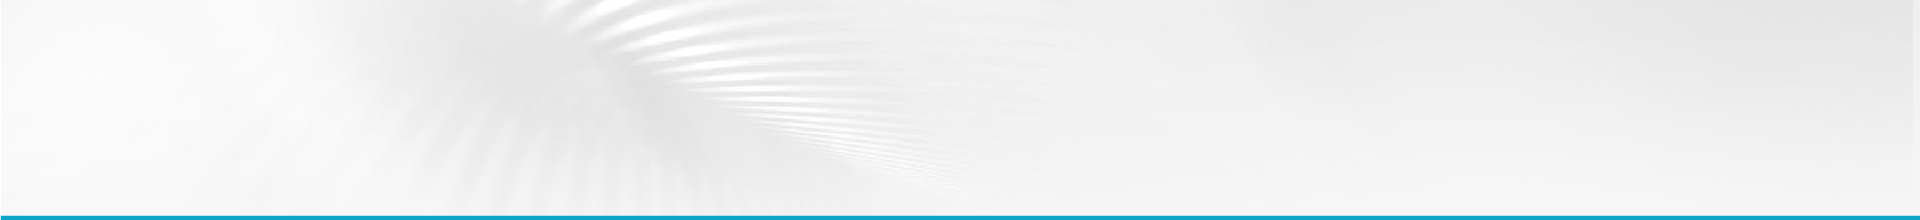
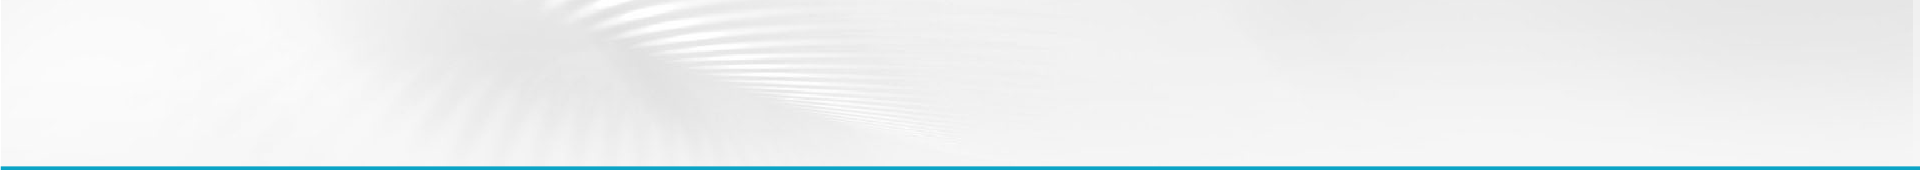
Modificações na pagina index, e na página tutoriais

Changed region(s): [[0.0, 0.9706, 1.0, 1.0]]

diff --git a/_css/tutorial.css b/_css/tutorial.css
@@ -1,33 +1,37 @@
 *{
-    margin: 0;
-    padding: 0;
+    margin: 0px;
+    padding: 0px;
+}
+
+/* -------------------------- CSS BODY ----------------------- */
+
+body{
+    font-family: Lato;
+    background-image: url("../_images/bg-branco.png");
+    background-attachment: fixed;
 }
 
 
 /* -------------------------- CSS HEADER ----------------------- */
 
-body{
-    margin: 0px;
-    font-family: Lato;
-    background-image: url("../_images/bg-branco.png");
-}
-
 div#header{
+    position: relative;
     width: 100%;
-    height: 220px;
+    height: 170px;
     display: block;
     background-image: url("../_images/bg_header.png");
     box-shadow: 0px 20px 60px rgba(0,0,0,.3);
-    margin: -21px 0px 0px 0px;
+    margin: 0px 0px 0px 0px;
+    clear: left;
 }
 
 div#header h1 img{
     position: relative;
-    padding: 18px 0px 0px 0px;
+    padding: 0px 0px 0px 0px;
 }
 
 div#header h1{
-    padding: 15px 0px 0px 80px;
+    padding: 2px 0px 0px 80px;
     display: block;
     float: left;
 }
@@ -37,7 +41,7 @@ ul#nav_topo{
     padding-left: 0px;
     float: left;
     margin-left: 420px;
-    padding-top: 155px;
+    padding-top: 105px;
 }
 
 ul#nav_topo li{
@@ -62,7 +66,53 @@ ul#nav_topo a.ativa{
     border-bottom: 2.5px solid #086B7C;
 }
 
+div#box_social{
+    position: absolute;
+    float: left;
+    width: 150px;
+    height: 40px;
+    margin: 20px 0px 0px 1180px;
+}
 
+.icon{
+    margin: 0px 0px 0px 0px;
+    padding: 0;
+    position: relative;
+    float: left;
+    width: 40px;
+    height: 40px;
+
+}
+
+.icon img#twitter{
+    background-color: black;
+}
+
+.icon img#twitter:hover{
+    cursor: pointer;
+    background-color: #0BA4C6;
+    transition: .2s;
+}
+
+.icon img#facebook{
+    background-color: black;
+}
+
+.icon img#facebook:hover{
+    cursor: pointer;
+    background-color: #3B5998;
+    transition: .2s;
+}
+
+.icon img#google-plus{
+    background-color: black;
+}
+
+.icon img#google-plus:hover{
+    cursor: pointer;
+    background-color: #F34A38;
+    transition: .2s;
+}
 /* -------------------------- CSS CONTENT ----------------------- */
 
 .content{
@@ -140,4 +190,60 @@ ul#nav_topo a.ativa{
 .box_tutorial .botton:hover {
     background-color: #17BBCC;
     cursor: pointer;
+}
+
+
+/* -------------------------- CSS RODAPÉ ----------------------- */
+
+.rodape{
+    width: 100%;
+    height: 200px;
+    background-color: #1B1B1B;
+}
+
+ul#nav_rodape{
+    list-style: none;
+    text-align: center;
+    padding: 70px 0px 0px 0px;
+}
+
+ul#nav_rodape li{
+    display: inline-block;
+}
+
+ul#nav_rodape a{
+    text-decoration: none;
+    margin: 0px 0px 0px 20px;
+    color: white;
+    font-family: Lato;
+    font-size: 14px;
+}
+
+ul#nav_rodape a:hover{
+    color: #0BA4C6;
+    transition: .5s;
+}
+
+.rodape p{
+    text-align: center;
+    padding: 60px 0px 0px 0px;
+    font-size: 12px;
+    color: #4C4C4C;
+}
+
+/* -------------------------- BACK-TO-TOP ----------------------- */
+
+.back-to-top{
+    background-image: url("../_images/back-to-top-botton.png");
+    display: block;
+    width: 40px;
+    height: 40px;
+    position: fixed;
+    bottom: 10px;
+    right: 20px;
+}
+
+.back-to-top:hover{
+    cursor: pointer;
+    background-position: 0 -40px;
 }

diff --git a/_css/index.css b/_css/index.css
@@ -7,7 +7,6 @@
 /* -------------------------- CSS HEADER ----------------------- */
 
 body{
-    margin: 0px;
     font-family: Lato;
     background-image: url("../_images/bg-branco.png");
     background-attachment: fixed;
@@ -15,21 +14,23 @@ body{
 }
 
 div#header{
+    position: relative;
     width: 100%;
-    height: 220px;
+    height: 170px;
     display: block;
     background-image: url("../_images/bg_header.png");
     box-shadow: 0px 20px 60px rgba(0,0,0,.3);
-    margin: -21px 0px 0px 0px;
+    margin: 0px 0px 0px 0px;
+    clear: left;
 }
 
 div#header h1 img{
     position: relative;
-    padding: 18px 0px 0px 0px;
+    padding: 0px 0px 0px 0px;
 }
 
 div#header h1{
-    padding: 15px 0px 0px 80px;
+    padding: 2px 0px 0px 80px;
     display: block;
     float: left;
 }
@@ -39,7 +40,7 @@ ul#nav_topo{
     padding-left: 0px;
     float: left;
     margin-left: 420px;
-    padding-top: 155px;
+    padding-top: 105px;
 }
 
 ul#nav_topo li{
@@ -64,6 +65,53 @@ ul#nav_topo a.ativa{
     border-bottom: 2.5px solid #086B7C;
 }
 
+div#box_social{
+    position: absolute;
+    float: left;
+    width: 150px;
+    height: 40px;
+    margin: 20px 0px 0px 1180px;
+}
+
+.icon{
+    margin: 0px 0px 0px 0px;
+    padding: 0;
+    position: relative;
+    float: left;
+    width: 40px;
+    height: 40px;
+
+}
+
+.icon img#twitter{
+    background-color: black;
+}
+
+.icon img#twitter:hover{
+    cursor: pointer;
+    background-color: #0BA4C6;
+    transition: .2s;
+}
+
+.icon img#facebook{
+    background-color: black;
+}
+
+.icon img#facebook:hover{
+    cursor: pointer;
+    background-color: #3B5998;
+    transition: .2s;
+}
+
+.icon img#google-plus{
+    background-color: black;
+}
+
+.icon img#google-plus:hover{
+    cursor: pointer;
+    background-color: #F34A38;
+    transition: .2s;
+}
 
 /* -------------------------- CSS SLIDER ----------------------- */
 
@@ -286,8 +334,8 @@ ul#nav_rodape a:hover{
 .back-to-top{
     background-image: url("../_images/back-to-top-botton.png");
     display: block;
-    width: 60px;
-    height: 60px;
+    width: 40px;
+    height: 40px;
     position: fixed;
     bottom: 10px;
     right: 20px;
@@ -295,5 +343,5 @@ ul#nav_rodape a:hover{
 
 .back-to-top:hover{
     cursor: pointer;
-    background-position: 0 -60px;
+    background-position: 0 -40px;
 }

diff --git a/tutorial.html b/tutorial.html
@@ -4,6 +4,7 @@
     <meta charset="UTF-8">
     <link rel="stylesheet" href="_css/tutorial.css">
     <link href="https://fonts.googleapis.com/css?family=Lato" rel="stylesheet">
+    <script src="_js/back-to-top.js"></script>
     <title>Web Tutor's - Site Luisão WebMaster</title>
 </head>
 <body>
@@ -16,6 +17,18 @@
         <li><a href="#">QUEM SOU</a></li>
         <li><a href="#">CONTATO</a></li>
     </ul>
+
+    <div id="box_social">
+        <div class="icon">
+            <img src="_images/social_twitter.png" id="twitter" title="Acesse nosso Twitter">
+        </div>
+        <div class="icon">
+            <img src="_images/social_facebook.png " id="facebook" title="Acesse nosso Facebook">
+        </div>
+        <div class="icon">
+            <img src="_images/social_googleplus.png" id="google-plus" title="Acesse nosso Google+">
+        </div>
+    </div>
 </div>
 
 <div class="content">
@@ -50,6 +63,20 @@
     </div>
 </div>
 
+<div class="rodape">
+    <ul id="nav_rodape">
+        <li><a href="#">INICIO</a></li>
+        <li><a href="#">TUTORIAIS</a></li>
+        <li><a href="#">FERRAMENTAS SEO</a></li>
+        <li><a href="#">QUEM SOU</a></li>
+        <li><a href="#">CONTATO</a></li>
+    </ul>
+
+    <p>© 2017 Todos os direitos reservados. Site do Luisão WebMaster</p>
+
+</div>
+
+<div class="back-to-top" title="Voltar ao topo"></div>
 
 </body>
 </html>

diff --git a/index.html b/index.html
@@ -27,6 +27,19 @@
         <li><a href="#">QUEM SOU</a></li>
         <li><a href="#">CONTATO</a></li>
     </ul>
+
+    <div id="box_social">
+        <div class="icon">
+            <img src="_images/social_twitter.png" id="twitter" title="Acesse nosso Twitter">
+        </div>
+        <div class="icon">
+            <img src="_images/social_facebook.png " id="facebook" title="Acesse nosso Facebook">
+        </div>
+        <div class="icon">
+            <img src="_images/social_googleplus.png" id="google-plus" title="Acesse nosso Google+">
+        </div>
+    </div>
+
 </div>
 
 
@@ -102,9 +115,7 @@
 </div>
 
 
-<div class="back-to-top">
-
-</div>
+<div class="back-to-top" title="Voltar ao topo"></div>
 
 </body>
 </html>

diff --git a/_js/back-to-top.js b/_js/back-to-top.js
@@ -12,6 +12,6 @@ $(function () {
     $('.back-to-top').click(function () {
         $('html,body').animate({
             scrollTop: 0
-        }, 800);
+        }, 300);
     });
 });
